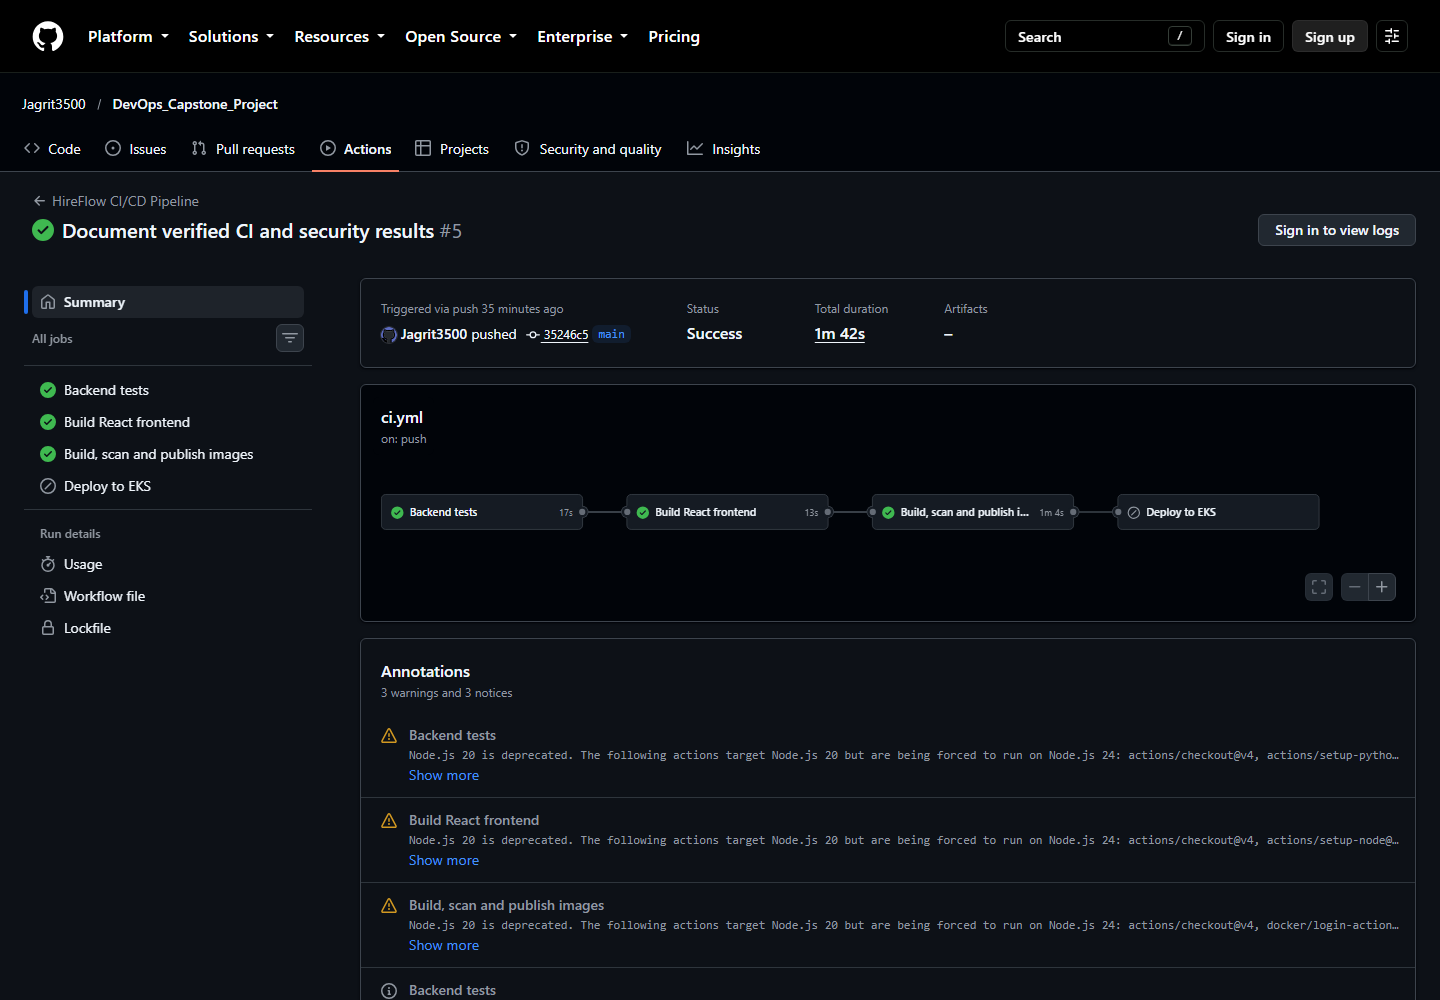
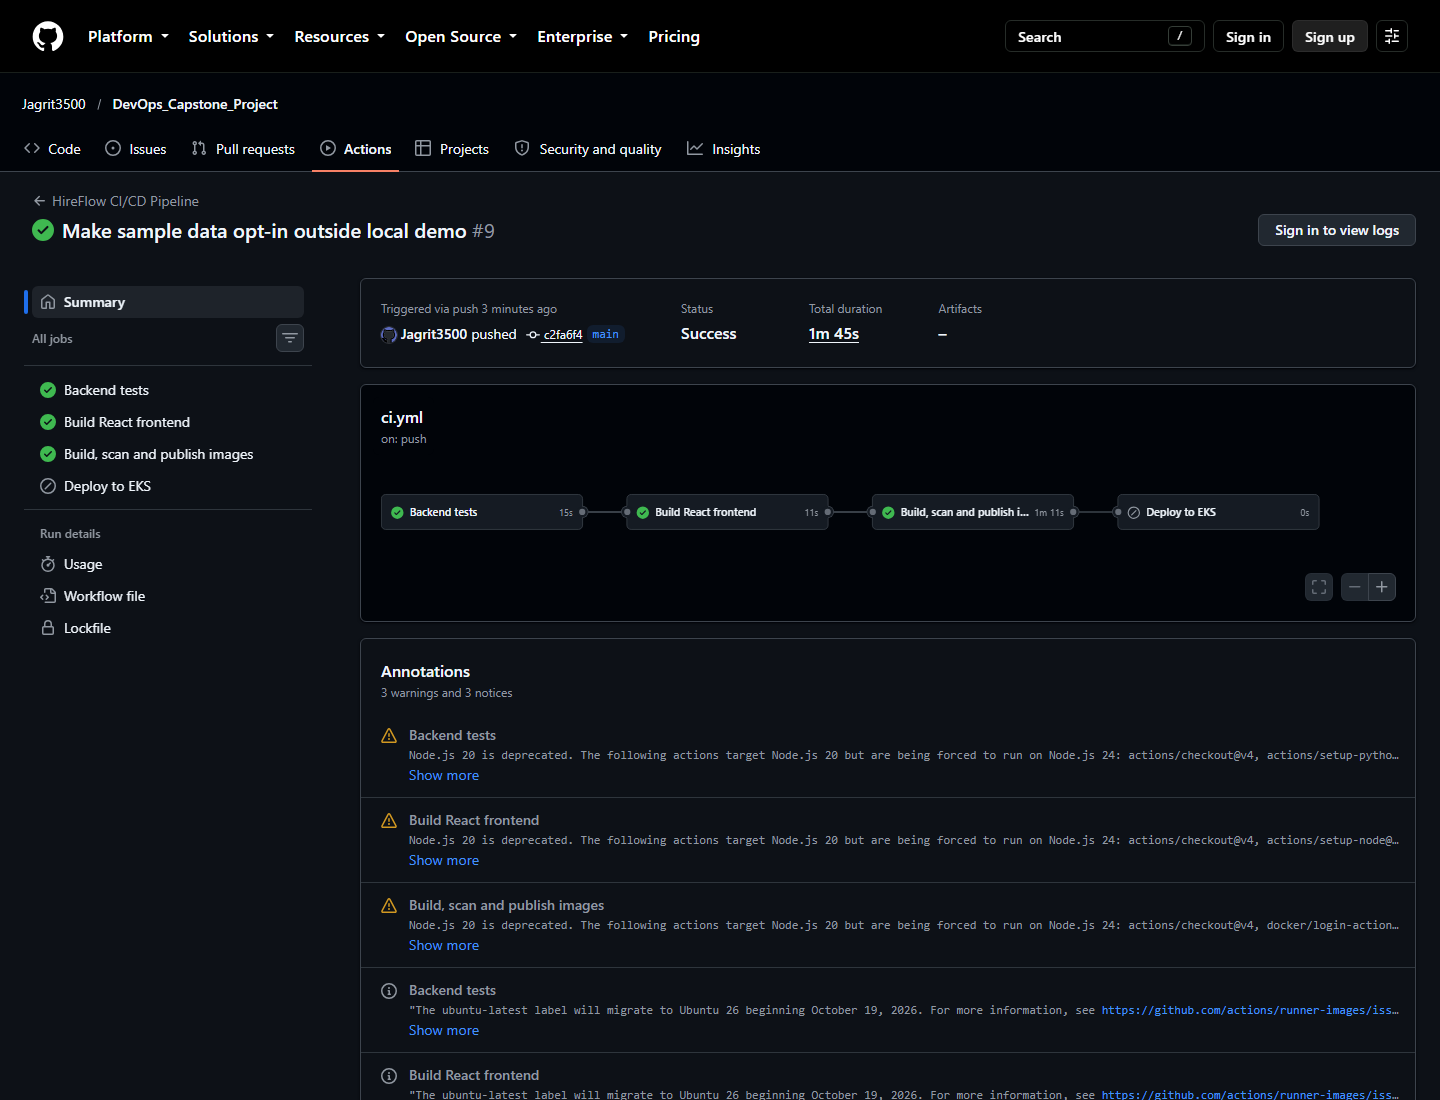
Document final green CI and commit history evidence

diff --git a/EVIDENCE.md b/EVIDENCE.md
@@ -4,13 +4,13 @@ The rubric requires real screenshots and a live or recorded walkthrough. Capture
 
 ## Before the cloud demo
 
-1. Repository: https://github.com/Jagrit3500/DevOps_Capstone_Project. Preserve its real commit history. The rubric asks for at least 10 meaningful commits; this target remains open.
+1. Repository: https://github.com/Jagrit3500/DevOps_Capstone_Project. Preserve its real commit history. The rubric's target of at least 10 meaningful commits has been met; see the [GitHub history screenshot](evidence/commit-history.png).
 2. Start Docker Desktop. Copy `.env.example` to `.env` and set a local password (the current local `.env` is already set up and ignored by Git). Run `docker compose up --build`, then capture the terminal showing all three services and the browser at `http://localhost:3000` with a candidate added.
 3. Run `cd backend` and `python -m pytest -v`; capture the passing test output. Open `/docs` and demonstrate create, read, update and delete. Show the PostgreSQL `candidates` table.
 4. Push to `main`. Capture the successful GitHub Actions run URL, its Trivy scan output for both images, the GHCR package pages showing SHA tags, and the commit history.
 5. Add a 2–3 sentence explanation of what Trivy scanned and what the result means. Use the actual scan result.
 
-Verified CI result: [run 38921487642](https://github.com/Jagrit3500/DevOps_Capstone_Project/actions/runs/38921487642) passed backend tests, frontend build, both image builds, both Trivy gates and GHCR publication. The EKS deploy job was skipped because the AWS repository variables are not configured yet. The [backend](evidence/ghcr-backend.png) and [frontend](evidence/ghcr-frontend.png) GHCR screenshots show the SHA-tagged images are public. A [390px mobile screenshot](evidence/mobile-app.png) was captured with `node scripts/capture-mobile.mjs`; its viewport and document width both measured 390px.
+Verified CI result: [run 38922674760](https://github.com/Jagrit3500/DevOps_Capstone_Project/actions/runs/38922674760) passed backend tests, frontend build, both image builds, both Trivy gates and GHCR publication. The [run screenshot](evidence/ci-success.png) shows those jobs green. The EKS deploy job was skipped because the AWS repository variables are not configured yet. The [backend](evidence/ghcr-backend.png) and [frontend](evidence/ghcr-frontend.png) GHCR screenshots show the SHA-tagged images are public. A [390px mobile screenshot](evidence/mobile-app.png) was captured with `node scripts/capture-mobile.mjs`; its viewport and document width both measured 390px.
 
 Trivy scanned the operating-system and installed application packages in both runtime images for HIGH and CRITICAL vulnerabilities. Both refreshed images passed the strict gate; the local scan reported zero such findings in each image, and the GitHub Actions scans also passed. Future scans can change as the vulnerability database and image tags are updated.
 
@@ -32,9 +32,9 @@ The optional deploy job runs when `EKS_CLUSTER_NAME` is configured as a GitHub A
 
 - [x] Running application in browser at `localhost:3000`
 - [ ] `pytest -v` passing output
-- [ ] Commit history with at least 10 genuine commits
+- [x] Commit history with at least 10 genuine commits
 - [ ] `docker compose up --build` showing frontend, backend and PostgreSQL
-- [x] Successful GitHub Actions run URL
+- [x] Successful GitHub Actions run URL and screenshot
 - [x] GHCR package pages with SHA tags
 - [ ] Trivy output for both images and 2–3 sentence result explanation
 - [ ] `terraform plan` output

diff --git a/README.md b/README.md
@@ -308,9 +308,9 @@ Full docs: **http://localhost:8000/docs**
 |--------|--------|
 | M1 - Application | Compose stack, PostgreSQL, API and frontend HTTP verified locally; [browser screenshot](evidence/local-app.png) and [mobile screenshot](evidence/mobile-app.png) captured |
 | M2 - Testing | 19 pytest cases passed locally |
-| M3 - Git | Repository pushed to GitHub; the rubric's 10 meaningful commit target is still pending |
+| M3 - Git | Repository pushed to GitHub with 10 meaningful commits; [history screenshot](evidence/commit-history.png) captured |
 | M4 - Docker | Both images built and all three Compose services started locally; browser screenshot captured, terminal screenshot pending |
-| M5 - CI/CD | Tests, frontend build, image builds and GHCR publication passed in [audit run 38921487642](https://github.com/Jagrit3500/DevOps_Capstone_Project/actions/runs/38921487642); [earlier green run screenshot](evidence/ci-success.png) and [GHCR package screenshots](evidence/README.md) captured, EKS deploy skipped until AWS is configured |
+| M5 - CI/CD | Tests, frontend build, image builds and GHCR publication passed in [run 38922674760](https://github.com/Jagrit3500/DevOps_Capstone_Project/actions/runs/38922674760); [green run screenshot](evidence/ci-success.png) and [GHCR package screenshots](evidence/README.md) captured, EKS deploy skipped until AWS is configured |
 | M6 - DevSecOps | Both image Trivy HIGH/CRITICAL gates passed in run 38914043177; evidence screenshots pending |
 | M7 - Terraform | Init, fmt and validate passed locally; AWS plan/apply/destroy pending |
 | M8 — Kubernetes + Helm | Chart prepared; cluster deployment proof pending |

diff --git a/evidence/README.md b/evidence/README.md
@@ -4,9 +4,9 @@ Place real screenshots from the running application, CI, AWS, Kubernetes,
 Prometheus and Grafana here. `local-app.png` shows the local application with
 a newly added demo candidate. `mobile-app.png` shows the same dashboard at a
 genuine 390px emulated viewport; `node scripts/capture-mobile.mjs` reproduces
-it and checks that the document does not overflow horizontally. `ci-success.png` shows the successful CI run
-before the audit fixes. `ghcr-backend.png` and `ghcr-frontend.png` show the
-public packages with SHA tags from the audit-fix commit. The remaining evidence
+it and checks that the document does not overflow horizontally. `ci-success.png` shows the successful final code CI run. `ghcr-backend.png` and `ghcr-frontend.png` show the
+public packages with SHA tags from the audit-fix commit.
+`commit-history.png` shows all 10 genuine commits on GitHub. The remaining evidence
 is listed in `../EVIDENCE.md`.
 
 Do not include passwords, tokens or AWS account IDs in screenshots.
